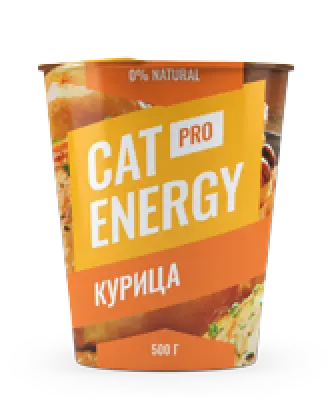
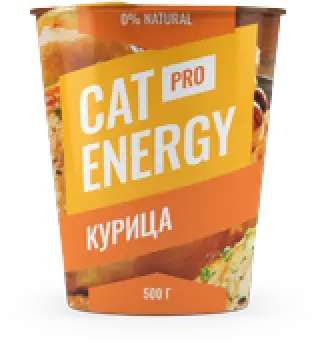
Style: позиц. картинки товара десктоп

diff --git a/source/sass/catalog/catalog__item.scss b/source/sass/catalog/catalog__item.scss
@@ -62,6 +62,10 @@
     position: absolute;
     bottom: 25px;
   }
+
+  @media (min-width: $desktop-width) {
+    bottom: 35px;
+  }
 }
 
 .link-img__small-img {
